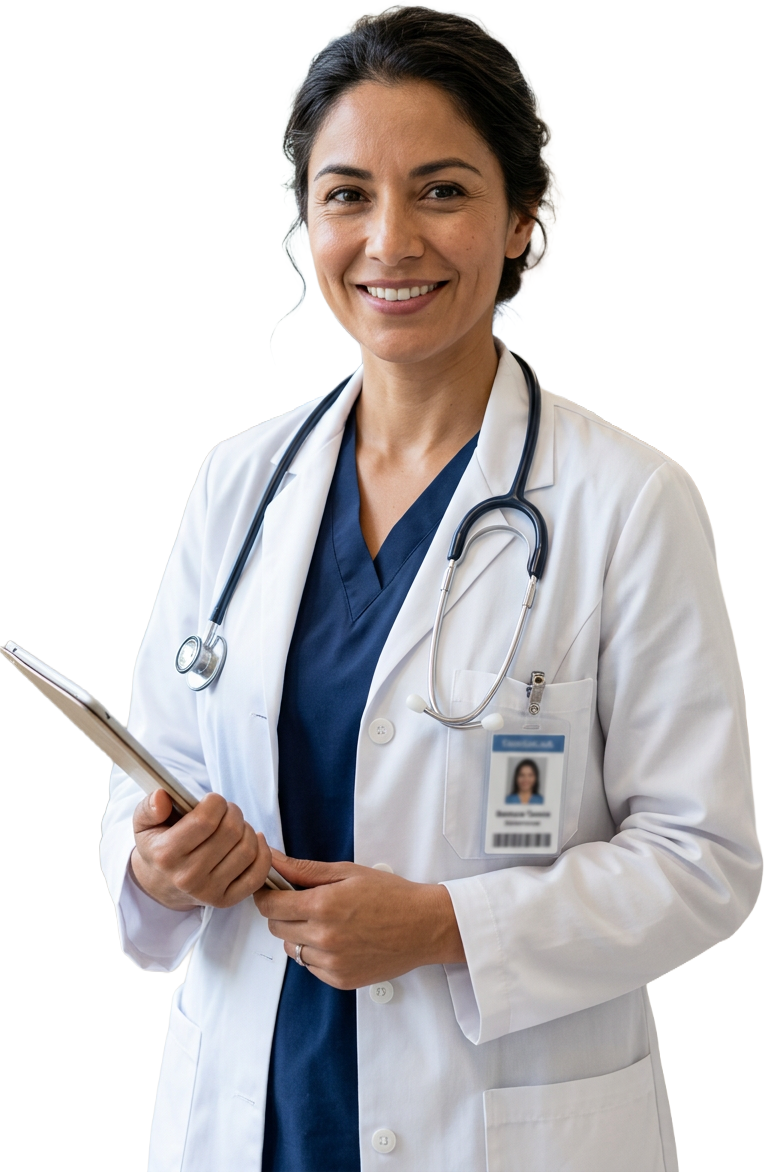
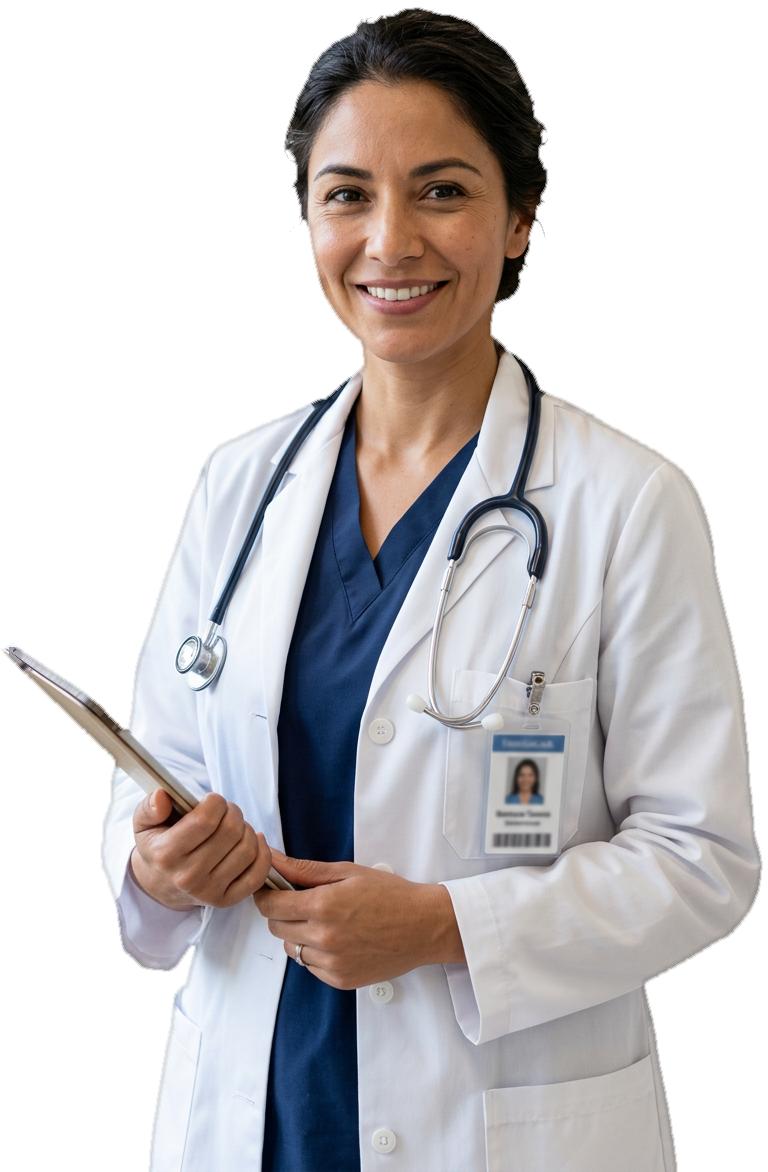
Hero: recorte de la doctora sin halo claro en el pelo

diff --git a/advance-web/index.html b/advance-web/index.html
@@ -29,9 +29,9 @@
 
     <link rel="stylesheet" href="assets/css/slick.css">
     <link rel="stylesheet" href="assets/css/slick.theme.css">
-    <link rel="stylesheet" type="text/css" href="assets/css/styles.css?v=202611031930">
-    <link rel="stylesheet" type="text/css" href="assets/css/brand.css?v=202611031930">
-    <link rel="stylesheet" type="text/css" href="assets/css/fondos-oscuros.css?v=202611031930">
+    <link rel="stylesheet" type="text/css" href="assets/css/styles.css?v=202611032000">
+    <link rel="stylesheet" type="text/css" href="assets/css/brand.css?v=202611032000">
+    <link rel="stylesheet" type="text/css" href="assets/css/fondos-oscuros.css?v=202611032000">
 
     <!-- Favicon and Touch Icons  -->
     <link rel="shortcut icon" href="assets/images/logo/favicon.png">
@@ -240,7 +240,7 @@
                         <span class="adv-float adv-float--tri-2 adv-float--c leftright" aria-hidden="true"></span>
 
                         <!-- FOTO PROVISORIA: reemplazar por la sesión del equipo. -->
-                        <img class="adv-hero__person" src="assets/images/hero/medica.png" alt="Profesional del equipo de Advance" width="722" height="1077">
+                        <img class="adv-hero__person" src="assets/images/hero/medica.png?v=202611032000" alt="Profesional del equipo de Advance" width="722" height="1077">
 
                         <div class="adv-tarjeta adv-tarjeta--1 updown">
                             <span class="ic"><i class="icon icon-check-solid" aria-hidden="true"></i></span>
@@ -1783,8 +1783,8 @@
     <script src="assets/js/ScrollTrigger.min.js"></script>
     <script src="assets/js/ScrollToPlugin.min.js"></script>
     <script src="assets/js/gsapAnimation.js"></script>
-    <script src="assets/js/main.js?v=202611031930"></script>
-    <script src="assets/js/advance.js?v=202611031930"></script>
+    <script src="assets/js/main.js?v=202611032000"></script>
+    <script src="assets/js/advance.js?v=202611032000"></script>
 </body>
 
 </html>

diff --git a/advance-web/404.html b/advance-web/404.html
@@ -22,9 +22,9 @@
 
     <link rel="stylesheet" href="assets/css/slick.css">
     <link rel="stylesheet" href="assets/css/slick.theme.css">
-    <link rel="stylesheet" type="text/css" href="assets/css/styles.css?v=202611031930">
-    <link rel="stylesheet" type="text/css" href="assets/css/brand.css?v=202611031930">
-    <link rel="stylesheet" type="text/css" href="assets/css/fondos-oscuros.css?v=202611031930">
+    <link rel="stylesheet" type="text/css" href="assets/css/styles.css?v=202611032000">
+    <link rel="stylesheet" type="text/css" href="assets/css/brand.css?v=202611032000">
+    <link rel="stylesheet" type="text/css" href="assets/css/fondos-oscuros.css?v=202611032000">
 
     <!-- Favicon and Touch Icons  -->
     <link rel="shortcut icon" href="assets/images/logo/favicon.png">
@@ -316,8 +316,8 @@
     <script src="assets/js/ScrollTrigger.min.js"></script>
     <script src="assets/js/ScrollToPlugin.min.js"></script>
     <script src="assets/js/gsapAnimation.js"></script>
-    <script src="assets/js/main.js?v=202611031930"></script>
-    <script src="assets/js/advance.js?v=202611031930"></script>
+    <script src="assets/js/main.js?v=202611032000"></script>
+    <script src="assets/js/advance.js?v=202611032000"></script>
 
 </body>
 

diff --git a/advance-web/contacto.html b/advance-web/contacto.html
@@ -22,9 +22,9 @@
 
     <link rel="stylesheet" href="assets/css/slick.css">
     <link rel="stylesheet" href="assets/css/slick.theme.css">
-    <link rel="stylesheet" type="text/css" href="assets/css/styles.css?v=202611031930">
-    <link rel="stylesheet" type="text/css" href="assets/css/brand.css?v=202611031930">
-    <link rel="stylesheet" type="text/css" href="assets/css/fondos-oscuros.css?v=202611031930">
+    <link rel="stylesheet" type="text/css" href="assets/css/styles.css?v=202611032000">
+    <link rel="stylesheet" type="text/css" href="assets/css/brand.css?v=202611032000">
+    <link rel="stylesheet" type="text/css" href="assets/css/fondos-oscuros.css?v=202611032000">
 
     <!-- Favicon and Touch Icons  -->
     <link rel="shortcut icon" href="assets/images/logo/favicon.png">
@@ -547,8 +547,8 @@
     <script src="assets/js/ScrollTrigger.min.js"></script>
     <script src="assets/js/ScrollToPlugin.min.js"></script>
     <script src="assets/js/gsapAnimation.js"></script>
-    <script src="assets/js/main.js?v=202611031930"></script>
-    <script src="assets/js/advance.js?v=202611031930"></script>
+    <script src="assets/js/main.js?v=202611032000"></script>
+    <script src="assets/js/advance.js?v=202611032000"></script>
 
 </body>
 

diff --git a/advance-web/especialidad.html b/advance-web/especialidad.html
@@ -22,9 +22,9 @@
 
     <link rel="stylesheet" href="assets/css/slick.css">
     <link rel="stylesheet" href="assets/css/slick.theme.css">
-    <link rel="stylesheet" type="text/css" href="assets/css/styles.css?v=202611031930">
-    <link rel="stylesheet" type="text/css" href="assets/css/brand.css?v=202611031930">
-    <link rel="stylesheet" type="text/css" href="assets/css/fondos-oscuros.css?v=202611031930">
+    <link rel="stylesheet" type="text/css" href="assets/css/styles.css?v=202611032000">
+    <link rel="stylesheet" type="text/css" href="assets/css/brand.css?v=202611032000">
+    <link rel="stylesheet" type="text/css" href="assets/css/fondos-oscuros.css?v=202611032000">
 
     <!-- Favicon and Touch Icons  -->
     <link rel="shortcut icon" href="assets/images/logo/favicon.png">
@@ -596,8 +596,8 @@
     <script src="assets/js/ScrollTrigger.min.js"></script>
     <script src="assets/js/ScrollToPlugin.min.js"></script>
     <script src="assets/js/gsapAnimation.js"></script>
-    <script src="assets/js/main.js?v=202611031930"></script>
-    <script src="assets/js/advance.js?v=202611031930"></script>
+    <script src="assets/js/main.js?v=202611032000"></script>
+    <script src="assets/js/advance.js?v=202611032000"></script>
 
 </body>
 

diff --git a/advance-web/especialidades.html b/advance-web/especialidades.html
@@ -22,9 +22,9 @@
 
     <link rel="stylesheet" href="assets/css/slick.css">
     <link rel="stylesheet" href="assets/css/slick.theme.css">
-    <link rel="stylesheet" type="text/css" href="assets/css/styles.css?v=202611031930">
-    <link rel="stylesheet" type="text/css" href="assets/css/brand.css?v=202611031930">
-    <link rel="stylesheet" type="text/css" href="assets/css/fondos-oscuros.css?v=202611031930">
+    <link rel="stylesheet" type="text/css" href="assets/css/styles.css?v=202611032000">
+    <link rel="stylesheet" type="text/css" href="assets/css/brand.css?v=202611032000">
+    <link rel="stylesheet" type="text/css" href="assets/css/fondos-oscuros.css?v=202611032000">
 
     <!-- Favicon and Touch Icons  -->
     <link rel="shortcut icon" href="assets/images/logo/favicon.png">
@@ -743,8 +743,8 @@
     <script src="assets/js/ScrollTrigger.min.js"></script>
     <script src="assets/js/ScrollToPlugin.min.js"></script>
     <script src="assets/js/gsapAnimation.js"></script>
-    <script src="assets/js/main.js?v=202611031930"></script>
-    <script src="assets/js/advance.js?v=202611031930"></script>
+    <script src="assets/js/main.js?v=202611032000"></script>
+    <script src="assets/js/advance.js?v=202611032000"></script>
 
 </body>
 

diff --git a/advance-web/nosotros.html b/advance-web/nosotros.html
@@ -22,9 +22,9 @@
 
     <link rel="stylesheet" href="assets/css/slick.css">
     <link rel="stylesheet" href="assets/css/slick.theme.css">
-    <link rel="stylesheet" type="text/css" href="assets/css/styles.css?v=202611031930">
-    <link rel="stylesheet" type="text/css" href="assets/css/brand.css?v=202611031930">
-    <link rel="stylesheet" type="text/css" href="assets/css/fondos-oscuros.css?v=202611031930">
+    <link rel="stylesheet" type="text/css" href="assets/css/styles.css?v=202611032000">
+    <link rel="stylesheet" type="text/css" href="assets/css/brand.css?v=202611032000">
+    <link rel="stylesheet" type="text/css" href="assets/css/fondos-oscuros.css?v=202611032000">
 
     <!-- Favicon and Touch Icons  -->
     <link rel="shortcut icon" href="assets/images/logo/favicon.png">
@@ -746,8 +746,8 @@
     <script src="assets/js/ScrollTrigger.min.js"></script>
     <script src="assets/js/ScrollToPlugin.min.js"></script>
     <script src="assets/js/gsapAnimation.js"></script>
-    <script src="assets/js/main.js?v=202611031930"></script>
-    <script src="assets/js/advance.js?v=202611031930"></script>
+    <script src="assets/js/main.js?v=202611032000"></script>
+    <script src="assets/js/advance.js?v=202611032000"></script>
 
 </body>
 

diff --git a/advance-web/noticia.html b/advance-web/noticia.html
@@ -22,9 +22,9 @@
 
     <link rel="stylesheet" href="assets/css/slick.css">
     <link rel="stylesheet" href="assets/css/slick.theme.css">
-    <link rel="stylesheet" type="text/css" href="assets/css/styles.css?v=202611031930">
-    <link rel="stylesheet" type="text/css" href="assets/css/brand.css?v=202611031930">
-    <link rel="stylesheet" type="text/css" href="assets/css/fondos-oscuros.css?v=202611031930">
+    <link rel="stylesheet" type="text/css" href="assets/css/styles.css?v=202611032000">
+    <link rel="stylesheet" type="text/css" href="assets/css/brand.css?v=202611032000">
+    <link rel="stylesheet" type="text/css" href="assets/css/fondos-oscuros.css?v=202611032000">
 
     <!-- Favicon and Touch Icons  -->
     <link rel="shortcut icon" href="assets/images/logo/favicon.png">
@@ -427,8 +427,8 @@
     <script src="assets/js/ScrollTrigger.min.js"></script>
     <script src="assets/js/ScrollToPlugin.min.js"></script>
     <script src="assets/js/gsapAnimation.js"></script>
-    <script src="assets/js/main.js?v=202611031930"></script>
-    <script src="assets/js/advance.js?v=202611031930"></script>
+    <script src="assets/js/main.js?v=202611032000"></script>
+    <script src="assets/js/advance.js?v=202611032000"></script>
 
 </body>
 

diff --git a/advance-web/noticias.html b/advance-web/noticias.html
@@ -22,9 +22,9 @@
 
     <link rel="stylesheet" href="assets/css/slick.css">
     <link rel="stylesheet" href="assets/css/slick.theme.css">
-    <link rel="stylesheet" type="text/css" href="assets/css/styles.css?v=202611031930">
-    <link rel="stylesheet" type="text/css" href="assets/css/brand.css?v=202611031930">
-    <link rel="stylesheet" type="text/css" href="assets/css/fondos-oscuros.css?v=202611031930">
+    <link rel="stylesheet" type="text/css" href="assets/css/styles.css?v=202611032000">
+    <link rel="stylesheet" type="text/css" href="assets/css/brand.css?v=202611032000">
+    <link rel="stylesheet" type="text/css" href="assets/css/fondos-oscuros.css?v=202611032000">
 
     <!-- Favicon and Touch Icons  -->
     <link rel="shortcut icon" href="assets/images/logo/favicon.png">
@@ -491,8 +491,8 @@
     <script src="assets/js/ScrollTrigger.min.js"></script>
     <script src="assets/js/ScrollToPlugin.min.js"></script>
     <script src="assets/js/gsapAnimation.js"></script>
-    <script src="assets/js/main.js?v=202611031930"></script>
-    <script src="assets/js/advance.js?v=202611031930"></script>
+    <script src="assets/js/main.js?v=202611032000"></script>
+    <script src="assets/js/advance.js?v=202611032000"></script>
 
 </body>
 
